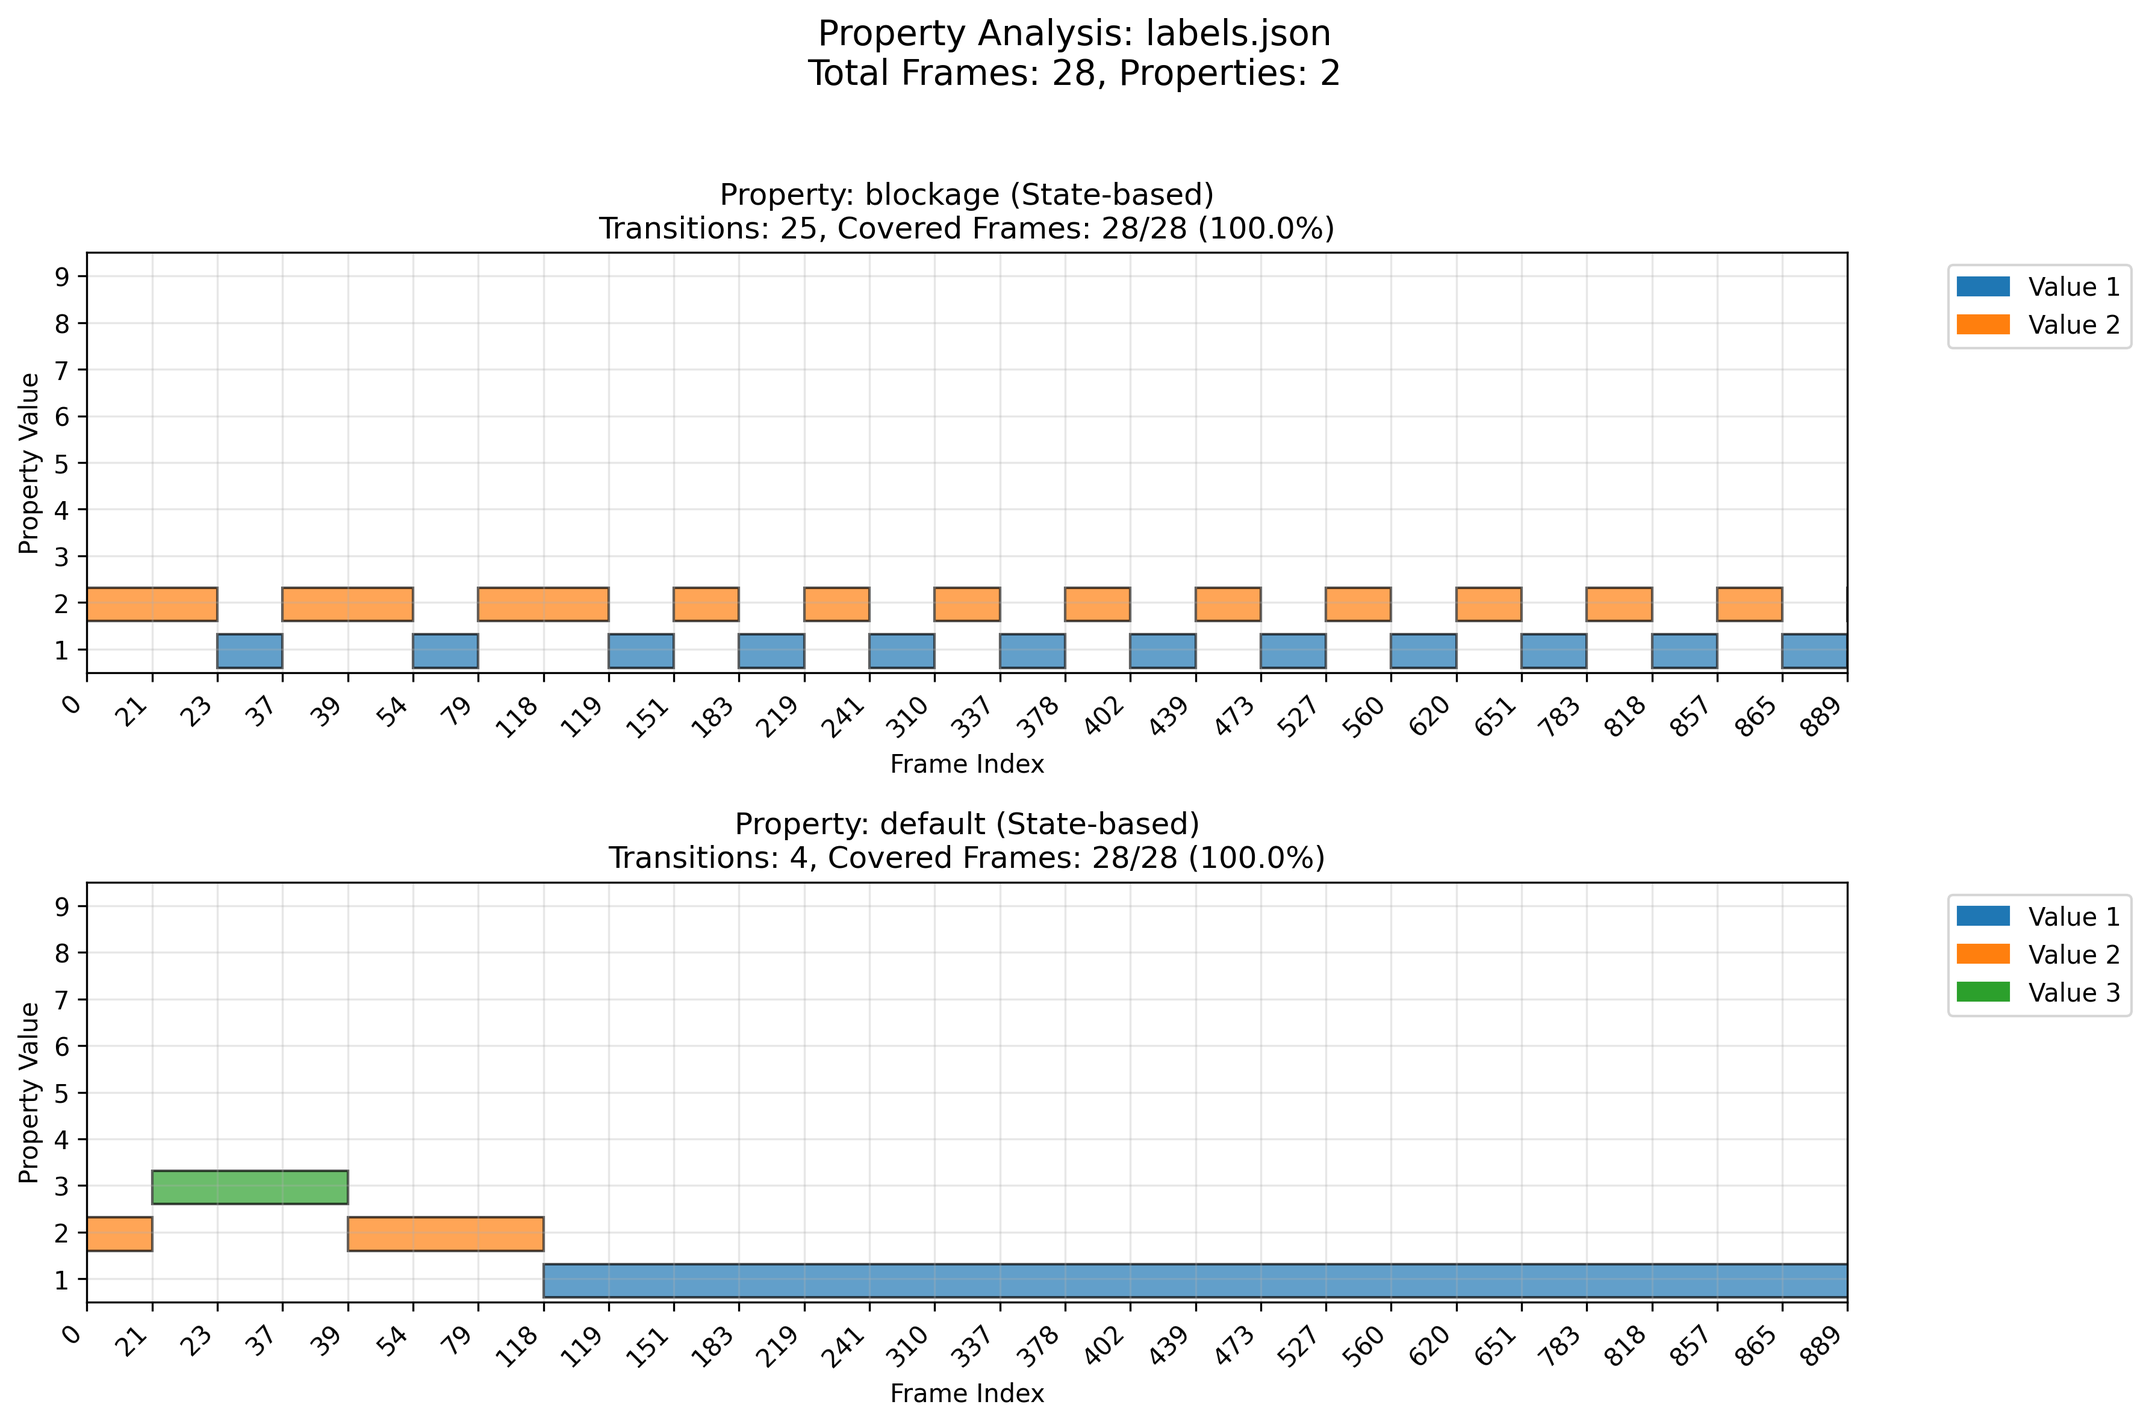
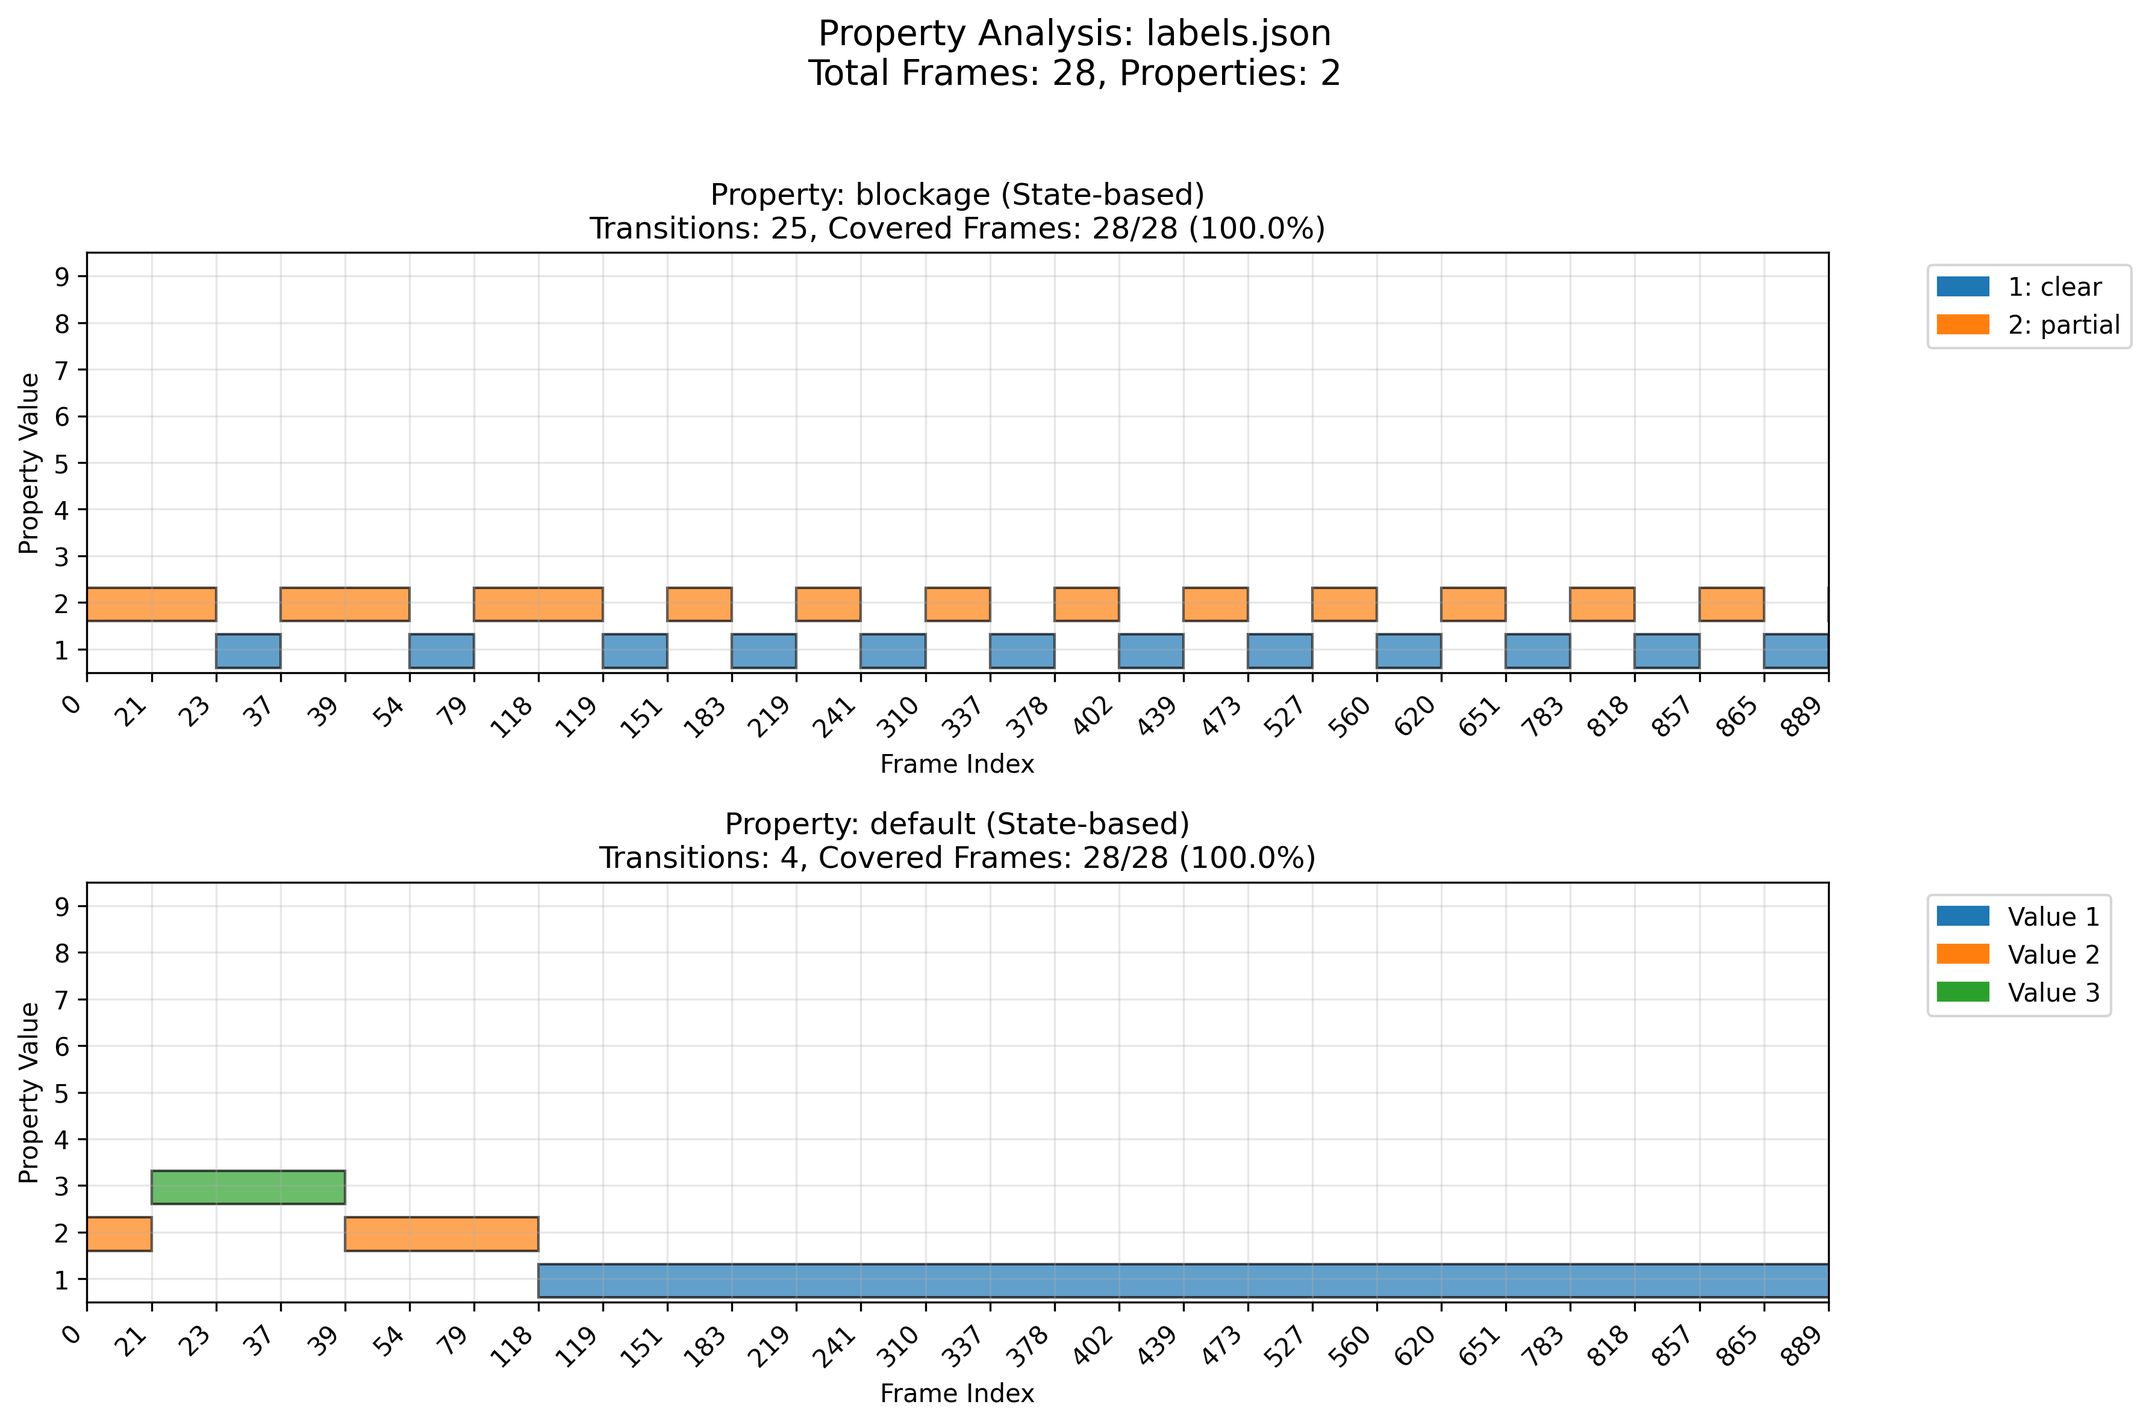
feat: Add value mappings and state-based visualization
Major enhancements to frame property labeling system:

Value Mappings:
- Add mappings field to JSON format (1:"clear", 2:"partial", 3:"blocked")
- Prompt for value meanings during first-time property setup
- Display meaningful labels in GUI status bar (1:clear instead of just 1)
- Backward compatible with legacy JSON format

State-based Analysis:
- Update analyzer to show property values as persistent state blocks
- Visualize state transitions and durations instead of individual points
- Enhanced statistics showing state coverage and transition efficiency
- Timeline display with readable descriptions (1:clear, 2:partial)

JSON Format v2.0:
- Structure: {frames: {...}, mappings: {...}, metadata: {...}}
- Self-documenting data with embedded value meanings
- Metadata includes creation info and statistics
- Maintains backward compatibility with legacy files

UI/UX Improvements:
- Show value meanings in real-time during labeling
- Enhanced legends with meaningful labels
- Better gap visualization for undefined states
- State-based workflow documentation

🤖 Generated with [Claude Code](https://claude.ai/code)

diff --git a/labeler_gui.py b/labeler_gui.py
@@ -61,6 +61,7 @@ class FrameLabelerApp:
     def _load_existing_labels(self) -> Dict[str, Dict[str, Set[int]]]:
         """Load existing labels. Structure: {frame_key: {property_name: set(values)}}"""
         if not self.labels_path.exists():
+            self.value_mappings = {}
             return {}
         
         try:
@@ -69,14 +70,29 @@ class FrameLabelerApp:
         except json.JSONDecodeError as exc:
             print(f"Failed to read {self.labels_path}: {exc}")
             print("Starting with empty labels.")
+            self.value_mappings = {}
             return {}
+        
+        # Handle both new format (with frames/mappings) and legacy format
+        if "frames" in data:
+            # New format
+            frame_data = data["frames"]
+            self.value_mappings = data.get("mappings", {})
+            if self.property_name in self.value_mappings:
+                print(f"\nLoaded value mappings for '{self.property_name}':")
+                for value, meaning in self.value_mappings[self.property_name].items():
+                    print(f"  {value}: {meaning}")
+        else:
+            # Legacy format - frame data is at root level
+            frame_data = data
+            self.value_mappings = {}
         
         # Convert loaded data to the expected structure
         result = {}
         property_exists = False
         existing_frames_count = 0
         
-        for frame_key, properties in data.items():
+        for frame_key, properties in frame_data.items():
             if isinstance(properties, dict):
                 # New format: multiple properties
                 result[frame_key] = {}
@@ -125,7 +141,42 @@ class FrameLabelerApp:
                 self.replace_property = False
                 print(f"Will keep and show existing values for property '{self.property_name}'")
         
+        # Ask for value mappings if not already defined for this property
+        if (self.property_name not in self.value_mappings or 
+            not self.value_mappings.get(self.property_name, {})):
+            self._setup_value_mappings()
+        
         return result
+    
+    def _setup_value_mappings(self) -> None:
+        """Set up value mappings for the current property."""
+        print(f"\nDefine value meanings for property '{self.property_name}':")
+        print("You can define what each number (1-9) means for this property.")
+        print("Press Enter to skip a value, or type 'done' to finish early.")
+        print("Examples: 1='empty', 2='full', 3='invalid'")
+        
+        if self.property_name not in self.value_mappings:
+            self.value_mappings[self.property_name] = {}
+        
+        for i in range(1, 10):
+            current_meaning = self.value_mappings[self.property_name].get(str(i), "")
+            if current_meaning:
+                prompt = f"  Value {i} (currently '{current_meaning}'): "
+            else:
+                prompt = f"  Value {i}: "
+            
+            meaning = input(prompt).strip()
+            if meaning.lower() == 'done':
+                break
+            elif meaning:
+                self.value_mappings[self.property_name][str(i)] = meaning
+            elif str(i) in self.value_mappings[self.property_name]:
+                # Keep existing mapping if user pressed enter
+                pass
+        
+        print(f"\nValue mappings for '{self.property_name}':")
+        for value, meaning in self.value_mappings[self.property_name].items():
+            print(f"  {value}: {meaning}")
     
     def _frame_key(self, frame_path: Path) -> str:
         return frame_path.relative_to(self.image_dir).as_posix()
@@ -189,10 +240,19 @@ class FrameLabelerApp:
         # Property name and current values
         current_props = self._get_frame_properties(self.current_index)
         
+        # Create value display with meanings
+        prop_values_display = []
+        for value in sorted(current_props):
+            meaning = self.value_mappings.get(self.property_name, {}).get(str(value), "")
+            if meaning:
+                prop_values_display.append(f"{value}:{meaning}")
+            else:
+                prop_values_display.append(str(value))
+        
         # Enhanced property display when keeping existing values
         if self.replace_property is False and current_props:
             # Show existing values more prominently
-            prop_text = f"Property [{self.property_name}] (EXISTING): {sorted(current_props)}"
+            prop_text = f"Property [{self.property_name}] (EXISTING): {prop_values_display}"
             # Use cyan color for existing values
             cv2.putText(status_bar, prop_text, (10, 50), 
                        cv2.FONT_HERSHEY_SIMPLEX, 0.6, (255, 255, 0), 2)
@@ -201,7 +261,7 @@ class FrameLabelerApp:
             cv2.putText(status_bar, "* Existing data - Toggle numbers to modify", (10, 75), 
                        cv2.FONT_HERSHEY_SIMPLEX, 0.4, (0, 255, 255), 1)
         else:
-            prop_text = f"Property [{self.property_name}]: {sorted(current_props)}"
+            prop_text = f"Property [{self.property_name}]: {prop_values_display}"
             cv2.putText(status_bar, prop_text, (10, 50), 
                        cv2.FONT_HERSHEY_SIMPLEX, 0.6, (0, 255, 0), 2)
         
@@ -239,11 +299,23 @@ class FrameLabelerApp:
     def _save_labels(self) -> None:
         """Save current labels to JSON file."""
         # Convert sets to lists for JSON serialization
-        save_data = {}
+        frame_data = {}
         for frame_key, properties in self.labels.items():
-            save_data[frame_key] = {}
+            frame_data[frame_key] = {}
             for prop_name, values in properties.items():
-                save_data[frame_key][prop_name] = sorted(list(values))
+                frame_data[frame_key][prop_name] = sorted(list(values))
+        
+        # Create complete save data structure with mappings
+        save_data = {
+            "frames": frame_data,
+            "mappings": getattr(self, 'value_mappings', {}),
+            "metadata": {
+                "created_with": "frame_property_labeler",
+                "version": "2.0",
+                "total_frames": len(self.frames),
+                "properties": list(self.labels.keys()) if hasattr(self, 'labels') else []
+            }
+        }
         
         try:
             with self.labels_path.open("w", encoding="utf-8") as fh:

diff --git a/analyze_labels.py b/analyze_labels.py
@@ -36,9 +36,21 @@ class LabelAnalyzer:
         with self.labels_path.open("r", encoding="utf-8") as fh:
             data = json.load(fh)
         
+        # Handle both new format (with frames/mappings) and legacy format
+        if "frames" in data:
+            # New format
+            frame_data = data["frames"]
+            self.value_mappings = data.get("mappings", {})
+            self.metadata = data.get("metadata", {})
+        else:
+            # Legacy format - frame data is at root level
+            frame_data = data
+            self.value_mappings = {}
+            self.metadata = {}
+        
         # Normalize data structure
         result = {}
-        for frame_key, properties in data.items():
+        for frame_key, properties in frame_data.items():
             if isinstance(properties, dict):
                 # New format: multiple properties
                 result[frame_key] = {}
@@ -220,8 +232,14 @@ class LabelAnalyzer:
             
             legend_elements = []
             for value in sorted(used_values):
+                # Include meaning in legend if available
+                meaning = self.value_mappings.get(prop_name, {}).get(str(value), "")
+                if meaning:
+                    label = f'{value}: {meaning}'
+                else:
+                    label = f'Value {value}'
                 legend_elements.append(
-                    patches.Patch(color=colors[value-1], label=f'Value {value}')
+                    patches.Patch(color=colors[value-1], label=label)
                 )
             
             if legend_elements:
@@ -274,6 +292,20 @@ class LabelAnalyzer:
         print(f"Total frames in sequence: {len(self.frame_sequence)}")
         print(f"Properties found: {len(self.properties)}")
         
+        # Show value mappings if available
+        if hasattr(self, 'value_mappings') and self.value_mappings:
+            print(f"\nValue Mappings:")
+            for prop_name, mappings in self.value_mappings.items():
+                print(f"  {prop_name}:")
+                for value, meaning in mappings.items():
+                    print(f"    {value}: {meaning}")
+        
+        # Show metadata if available
+        if hasattr(self, 'metadata') and self.metadata:
+            version = self.metadata.get('version', 'unknown')
+            created_with = self.metadata.get('created_with', 'unknown')
+            print(f"\nFile Info: {created_with} v{version}")
+        
         for prop_name in sorted(self.properties):
             stat = stats[prop_name]
             state_timeline = self._build_state_timeline(prop_name)
@@ -291,8 +323,17 @@ class LabelAnalyzer:
                 print(f"  State timeline:")
                 for start, end, values in state_timeline[:10]:  # Show first 10 states
                     duration = end - start
-                    values_str = sorted(list(values))
-                    print(f"    Frames {start}-{end-1} ({duration} frames): {values_str}")
+                    
+                    # Format values with meanings
+                    value_displays = []
+                    for value in sorted(values):
+                        meaning = self.value_mappings.get(prop_name, {}).get(str(value), "")
+                        if meaning:
+                            value_displays.append(f"{value}:{meaning}")
+                        else:
+                            value_displays.append(str(value))
+                    
+                    print(f"    Frames {start}-{end-1} ({duration} frames): {value_displays}")
                 if len(state_timeline) > 10:
                     print(f"    ... and {len(state_timeline) - 10} more states")
             

diff --git a/README.md b/README.md
@@ -22,9 +22,11 @@ python3 labeler_gui.py /path/to/frames --property quality --fps 10 --labels cust
 #### Features:
 - **Multiple Properties**: Each frame can have multiple values per property (e.g., motion=[1,3,5])
 - **Property Sessions**: Name your properties (motion, quality, person, etc.)
+- **Value Mappings**: Define what each number means (1='clear', 2='partial', 3='blocked')
 - **Smart Property Handling**: Detects existing properties and asks whether to keep or replace
 - **Variable Playback Speed**: 1x, 1.5x, 2x (D/A keys)
 - **Toggle-based Labeling**: Press 1-9 to toggle property values on/off
+- **State-based Workflow**: Property values mark transitions that persist until next change
 
 #### Controls:
 - **1-9**: Toggle property value for current frame
@@ -55,57 +57,97 @@ python3 analyze_labels.py /path/to/labels.json --save analysis.png --no-show
 ```
 
 #### Features:
-- **Line Plots**: Visualize property values across frame sequence
-- **Completeness Analysis**: See percentage of labeled frames per property
-- **Gap Detection**: Identify unlabeled regions in sequences
-- **Multi-Property Support**: Analyze all properties in one view
-- **Statistics**: Detailed statistics about labeling completeness
+- **State-based Visualization**: Shows property values as persistent state blocks
+- **Value Mapping Display**: Shows meaningful labels (clear/partial/blocked) instead of numbers
+- **Completeness Analysis**: See percentage of frames covered by defined states
+- **Gap Detection**: Identify regions with undefined states
+- **Multi-Property Support**: Analyze all properties with their mappings
+- **Timeline Analysis**: Detailed state transition timeline with durations
 
 #### Output:
-- **Visual Plot**: Line plot showing property values over time
-- **Completeness Stats**: Percentage of frames labeled per property
-- **Gap Analysis**: Lists of consecutive unlabeled frame ranges
-- **Value Distribution**: Average values per labeled frame
+- **State Block Plot**: Colored blocks showing state duration and transitions
+- **Meaningful Legends**: Shows "1: clear", "2: partial" instead of just numbers
+- **State Coverage Stats**: Percentage of sequence covered by defined states
+- **Transition Analysis**: Lists state changes with readable descriptions
+- **Gap Visualization**: Red areas show undefined state regions
 
 ## Data Format
 
-Labels are stored in JSON format:
+Labels are stored in JSON format with value mappings:
 
 ```json
 {
-  "frame001.jpg": {
-    "motion": [1, 3, 5],
-    "quality": [8, 9],
-    "person": [2]
+  "frames": {
+    "frame001.jpg": {
+      "motion": [1, 3, 5],
+      "quality": [8, 9],
+      "person": [2]
+    },
+    "frame002.jpg": {
+      "motion": [1, 2],
+      "quality": [7]
+    }
   },
-  "frame002.jpg": {
-    "motion": [1, 2],
-    "quality": [7]
+  "mappings": {
+    "motion": {
+      "1": "slow",
+      "2": "medium", 
+      "3": "fast",
+      "5": "very fast"
+    },
+    "quality": {
+      "7": "good",
+      "8": "very good",
+      "9": "excellent"
+    },
+    "person": {
+      "1": "adult",
+      "2": "child"
+    }
+  },
+  "metadata": {
+    "created_with": "frame_property_labeler",
+    "version": "2.0",
+    "total_frames": 150,
+    "properties": ["motion", "quality", "person"]
   }
 }
 ```
+
+The format includes:
+- **frames**: The actual frame labels (same as before)
+- **mappings**: Defines what each numeric value means for each property
+- **metadata**: File information and statistics
+- **Backward compatible**: Tool handles both new and legacy formats
 
 ## Workflow Example
 
 1. **First Pass - Motion Labeling**:
    ```bash
    python3 labeler_gui.py frames/ --property motion
+   # Define mappings: 1='slow', 2='medium', 3='fast'
+   # Label key transition points - states persist until next change
    ```
 
 2. **Second Pass - Quality Assessment**:
    ```bash
-   python3 labeler_gui.py frames/ --property quality
+   python3 labeler_gui.py frames/ --property quality  
+   # Define mappings: 7='good', 8='very good', 9='excellent'
+   # Motion labels remain untouched
    ```
 
 3. **Refinement - Update Motion**:
    ```bash
    python3 labeler_gui.py frames/ --property motion
-   # Choose "Keep existing" to see and modify previous labels
+   # Choose "Keep existing" to see current labels with meanings
+   # Modify state transitions as needed
    ```
 
 4. **Analysis**:
    ```bash
    python3 analyze_labels.py frames/labels.json --image-dir frames/
+   # View state-based timeline with meaningful labels
+   # See transition efficiency and state coverage
    ```
 
 ## Requirements
